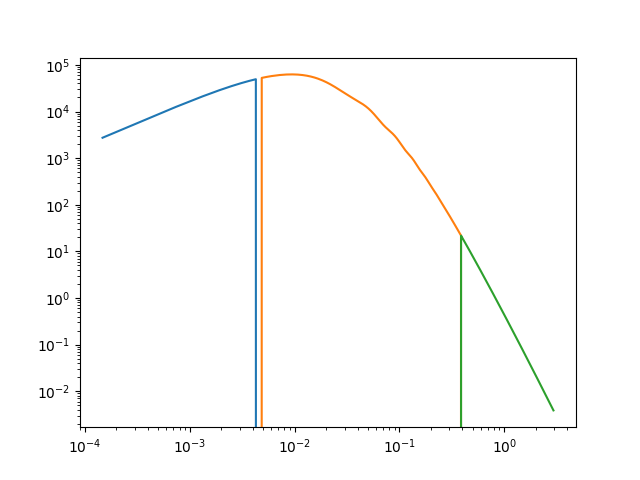
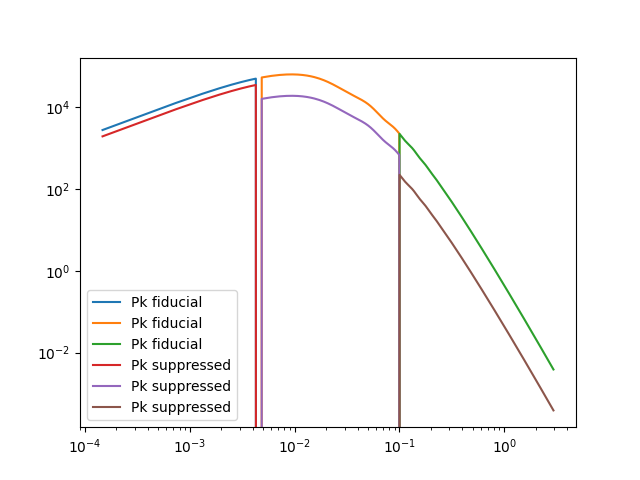
pk func: fixed binning in lin fit

diff --git a/pk_func_fit_linear.py b/pk_func_fit_linear.py
@@ -37,7 +37,7 @@ class Cl_kk_supp:
     k_max = 100
     zmax = 5000
     zsrc = 0.4
-    ells = np.arange(0,10000)
+    ells = np.arange(1,10000)
     z_arr = np.arange(0.001,50,0.01)
     ez = np.arange(0.001,6,0.01)
     lmin = 5
@@ -77,9 +77,12 @@ class Cl_kk_supp:
         self.d["data_binned"] = data_binned
         
 
-    def make_mock_data(self,alphas,sup_now = True):
+    def make_mock_data(self,alphas,k_bins):
         self.alphas = alphas
-        cl = self.get_Cl_kk(sup_now=True)
+        self.k_bins = k_bins
+        self.n_alphas = len(self.alphas)
+        cl = self.get_Cl_kk()
+        cl = cl*self.alphas
         cl_out = np.sum(cl,axis=1)
         nls_dict = {'kk': lambda x: x*0+self.shape_std**2/(2.*self.ngal_arcmin2*1.18e7)}
         noise_cov = nls_dict["kk"](self.ells)
@@ -91,7 +94,7 @@ class Cl_kk_supp:
         return cents,data_binned,cinv
 
     def get_theo(self):
-        cl_kappa = self.get_Cl_kk(sup=True)
+        cl_kappa = self.get_Cl_kk()
         self.d["cents"],self.d["theory_binned"] = self.binner.bin(self.ells,cl_kappa)
 
     def load_data(self):
@@ -114,17 +117,13 @@ class Cl_kk_supp:
     def get_pure_Pk(self,k):
         return self.PK.P(self.z_arr,k,grid=False)
 
-    def get_Pk_suppressed(self,k,sup_now=False):
+    def get_Pk_suppressed(self,k):
         Pk = self.get_pure_Pk(k)
-        #n_alphas = 3
         inds = np.digitize(k,self.k_bins)-1
         Pk_sup_out = np.zeros((len(Pk),self.n_alphas))
         for ind in range(self.n_alphas):
             inds_mask = (inds==ind)
-            if sup_now:
-                Pk_sup = self.alphas[ind] * inds_mask * Pk
-            else:
-                Pk_sup = inds_mask * Pk
+            Pk_sup = inds_mask * Pk
             Pk_sup_out[:,ind] = Pk_sup
         return Pk_sup_out
 
@@ -141,25 +140,33 @@ class Cl_kk_supp:
         window_kk = f*integral
         return window_kk
 
-    def get_Cl_kk(self,sup_now=False):
+    def get_Cl_kk(self):
         window_kk = self.get_window_kk()
-        #self.n_alphas = len(self.alphas)
         C_kk = np.zeros((self.ells.shape[0],self.n_alphas))
         for i in range(len(self.ells)):
             k = (self.ells[i] + 0.5)/self.chi_arr
-            Pk_sup_out = self.get_Pk_suppressed(k,sup_now)
+            Pk_sup_out = self.get_Pk_suppressed(k)
             integrand = (1/self.c)*(self.H_z[:,None] / self.chi_arr[:,None]**2 )*window_kk[:,None]**2 * Pk_sup_out
             C_kk[i,:] = np.trapz(integrand,self.z_arr[:,None],axis=0)
         return C_kk
     
     def get_Cl_kk_funcs(self):
         f = self.get_Cl_kk()
-        funcs = [interp1d(self.ells,f[:,j]) for j in range(f.shape[1])]
+        f_b = np.zeros((self.d["cents"].shape[0],f.shape[1]))
+        for i in range(f.shape[1]):
+            cs,f_b[:,i] = self.binner.bin(self.ells,f[:,i])
+        funcs = [interp1d(cs,f_b[:,j]) for j in range(f_b.shape[1])]
         return funcs 
+    
+    def cov2corr(self,mat):
+        diags = np.diagonal(mat).T
+        xdiags = diags[:,None,...]
+        ydiags = diags[None,:,...]
+        corr = mat/np.sqrt(xdiags*ydiags)
+        return corr
     
     def fit_linear_model(self,x,y,cinv,funcs):
         y = y.reshape((y.size,1))
-        np.savetxt("input_data.txt",y)
         A = np.zeros((y.size,len(funcs)))
         for i,func in enumerate(funcs):
             A[:,i] = func(x)
@@ -168,25 +175,18 @@ class Cl_kk_supp:
         Cy = np.dot(cinv,y)
         b = np.dot(A.T,Cy)
         X = np.dot(cov,b)
-        print(b.shape)
-        X0 = np.dot(cov,b*0 + 0.3)
-        print(X0)
         YAX = (y-np.dot(A,X))
-        YAX0 = (y - np.dot(A,X0))
-        print(YAX0)
-        chisquare0 = np.dot(YAX0.T,np.dot(cinv,YAX0))
         chisquare = np.dot(YAX.T,np.dot(cinv,YAX))
-        print('chisqr true param')
-        print(chisquare0)
-        return X, chisquare
+        corr = self.cov2corr(cov)
+        return X, chisquare,cov,corr
 
     def eval(self):
-        #self.alphas = alphas ##remove later on
+        self.n_alphas = len(self.k_bins)-1
         x = self.d["cents"]
         y = self.d["data_binned"]
         cinv = self.d["cinv"]
         funcs = self.get_Cl_kk_funcs()
-        X,chisquare = self.fit_linear_model(x,y,cinv,funcs)
-        return X, chisquare
+        X,chisquare,cov,corr= self.fit_linear_model(x,y,cinv,funcs)
+        return X, chisquare,cov,corr
         
 

diff --git a/tests/test_lin_fit.py b/tests/test_lin_fit.py
@@ -3,27 +3,42 @@ sys.path.append("../")
 import pk_func_fit_linear as pk
 import numpy as np
 
-alphas_true = np.array([0.3])
-pkcl = pk.Cl_kk_supp()
-k_bins = np.array([4.5e-5,3e3])
-pkcl.k_bins = k_bins
-pkcl.n_alphas = len(k_bins)-1
 
-print(pkcl.k_bins)
+print("--------------")
+print("Mock data")
+alphas_true = np.array([0.5,0.3,0.1])
+print("mock data sup params")
 print(alphas_true)
-cents,data_binned,cinv = pkcl.make_mock_data(alphas_true,sup_now=True)
+pkcl = pk.Cl_kk_supp()
+k_bins = np.array([4.5e-5,4.5e-3,0.1,3e3])
+print("mock data k bins")
+print(k_bins)
+cents,data_binned,cinv = pkcl.make_mock_data(alphas_true,k_bins)
+
 
 cl_arr = np.vstack((cents,data_binned))
 np.savetxt("../mock_data/mock_cl_z_0.4_lin_fit.txt",cl_arr)
 np.savetxt("../mock_data/mock_cinv_z_0.4_lin_fit.txt",cinv)
 
-pkcl.k_bins = k_bins
+print("--------------")
 
-X,chisquare = pkcl.eval()
-print("results with same bins as mock data")
+new_k_bins = k_bins
+#new_k_bins = np.array([4.5e-5,4.5e-3,4.5e-2,0.1,3e3])
+pkcl = pk.Cl_kk_supp()
+pkcl.k_bins = new_k_bins
+
+X,chisquare,cov,corr = pkcl.eval()
+print("Fitting results")
+print("fitting k_bins")
+print(new_k_bins)
+print("inferred sup params")
 print(X)
+print("covmat")
+print(cov)
+print("chisquare")
 print(chisquare)
-
+print("corr mat")
+print(corr)
 """
 pkcl.k_bins = k_bins*0.9
 X,chisquare = pkcl.eval()

diff --git a/tests/test_pk_basis_funcs.py b/tests/test_pk_basis_funcs.py
@@ -11,15 +11,46 @@ z = 1.
 chi_from_z = interp.interp1d(pkcl.z_arr,pkcl.chi_arr)
 chi = chi_from_z(z)
 chi_arr = pkcl.chi_arr
-print(np.min(chi_arr))
-print(np.max(chi_arr))
 ells = np.round(np.linspace(0,10000,5000))
 k = (ells + 0.5)/chi
 
-print(np.min(k))
-print(np.max(k))
-p = pkcl.get_Pk_suppressed(k)
+k_bins = np.array([4.5e-5,4.5e-3,1.0e-1,3.0e+3])
+#pkcl.n_alphas = len(pkcl.k_bins) - 1
+alphas = np.array([0.7,0.3,0.1])
+
+cents,data_binned,cinv = pkcl.make_mock_data(alphas,k_bins)
+
+print(pkcl.n_alphas)
+print(pkcl.alphas)
+print(pkcl.k_bins)
+
+X,chisquare,cov,corr = pkcl.eval()
+
+errs_arr = np.diag(cov)**2
+
+print(errs_arr)
+
+p_sup = alphas*pkcl.get_Pk_suppressed(k)
+
+pkcl.alphas = np.array([1.,1.,1.])
+pkcl.n_alphas = len(pkcl.alphas)
+pkcl.k_bins = k_bins
+
+p_fid = pkcl.get_Pk_suppressed(k)
+
+rat = np.divide(p_sup,p_fid, out = np.zeros_like(p_sup), where=p_fid!=0)
 
 fig = plt.figure()
-plt.loglog(k,p)
+for i in range(rat.shape[1]):
+    inds = (rat[:,i]>0.)
+    plt.plot(k[inds],rat[inds,i])
+    plt.fill_between(k[inds],rat[inds,i]-errs_arr[i],rat[inds,i]+errs_arr[i],alpha=0.2)
+plt.xscale("log")
+plt.yscale("log")
+plt.savefig("../plots/pk_alpha_errs.png")
+
+fig = plt.figure()
+plt.loglog(k,p_fid,label="Pk fiducial")
+plt.loglog(k,p_sup,label="Pk suppressed")
+plt.legend()
 plt.savefig("../plots/pk_binned.png")

diff --git a/tests/test_clkk_basis_funcs.py b/tests/test_clkk_basis_funcs.py
@@ -6,32 +6,31 @@ import pk_func as pk1
 import numpy as np
 import matplotlib.pyplot as plt
 
-alphas = np.array([0.3])
+alphas = np.array([0.7,0.5,0.3])
+k_bins = np.array([5e-5,5e-3,1e-1,3e3])
 
 pkcl1 = pk1.Cl_kk_supp()
 pkcl2 = pk2.Cl_kk_supp()
 
+pkcl2.k_bins = k_bins
+
 pkcl1.alphas = alphas
-pkcl2.alphas = alphas
 
 Cl_o = pkcl1.get_Cl_kk(sup=False)
 Cl_1 = pkcl1.get_Cl_kk(sup=True)
 Cl_2 = pkcl2.get_Cl_kk()
 
-cents,data_binned,cinv = pkcl1.make_mock_data(sup=True,alphas=alphas)
-
-c,d = np.loadtxt("../mock_data/mock_cl_z_0.4_lin_fit.txt")
+cents,data_binned,cinv = pkcl2.make_mock_data(alphas,k_bins)
 
 fig = plt.figure()
 plt.loglog(pkcl1.ells,Cl_o,label="not sup, original")
-plt.loglog(pkcl1.ells,Cl_1,label="sup, origianl")
+plt.loglog(pkcl1.ells,Cl_1,label="sup, original")
 plt.loglog(pkcl2.ells,np.sum(Cl_2,axis=1),label="not sup, new")
-plt.loglog(c,d,label="sup,new, binned")
+plt.loglog(cents,data_binned,label="sup, new, binned")
 #plt.loglog(cents,data_binned,label="sup, original,binned")
 plt.legend()
 plt.savefig("../plots/cl_kk_old_new.png")
 
-k_bins = np.array([5e-5,5e-3,5e-1,5e1,5e3])
 k_bins = np.round(k_bins,decimals = 6)
 
 fig = plt.figure()

diff --git a/pk_func.py b/pk_func.py
@@ -116,7 +116,7 @@ class Cl_kk_supp:
         self.n_alphas = len(self.alphas)
         #self.n_alphas = 5
         #k_bins = np.array([5e-5,5e-3,5e-1,5e1,5e3])
-        k_bins = np.geomspace(5e-5,3e3,self.n_alphas+1)
+        k_bins = np.array([5e-5,5e-3,1e-1,3e3])
         inds = np.digitize(k,k_bins)-1
         alphas_k = [self.alphas[j] for j in inds]
         Pk_sup = alphas_k*Pk
